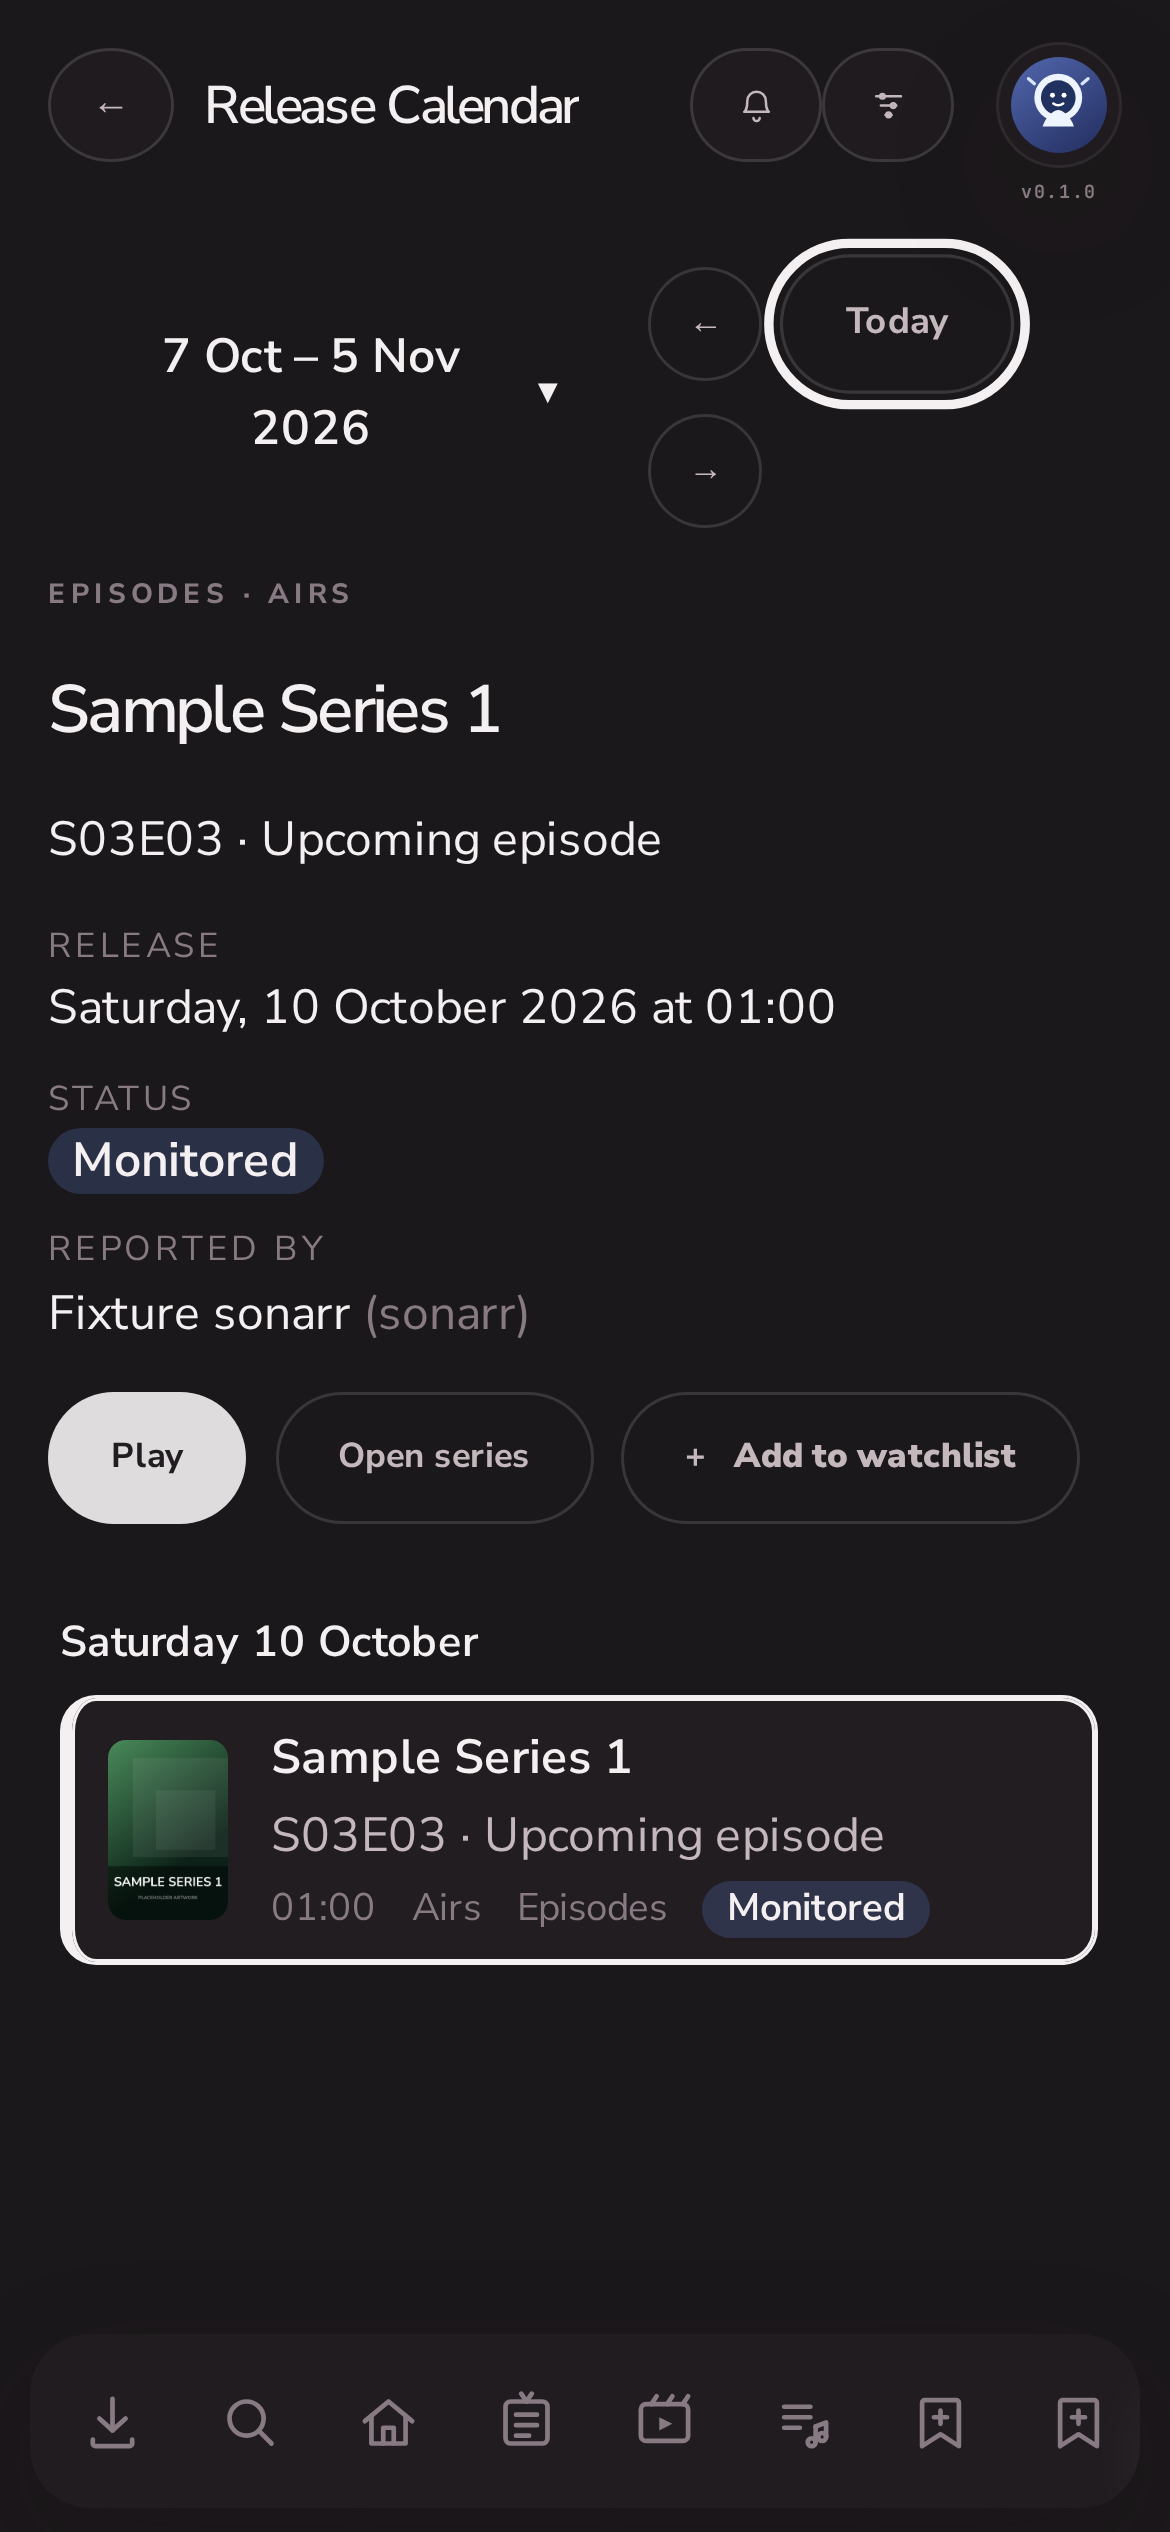
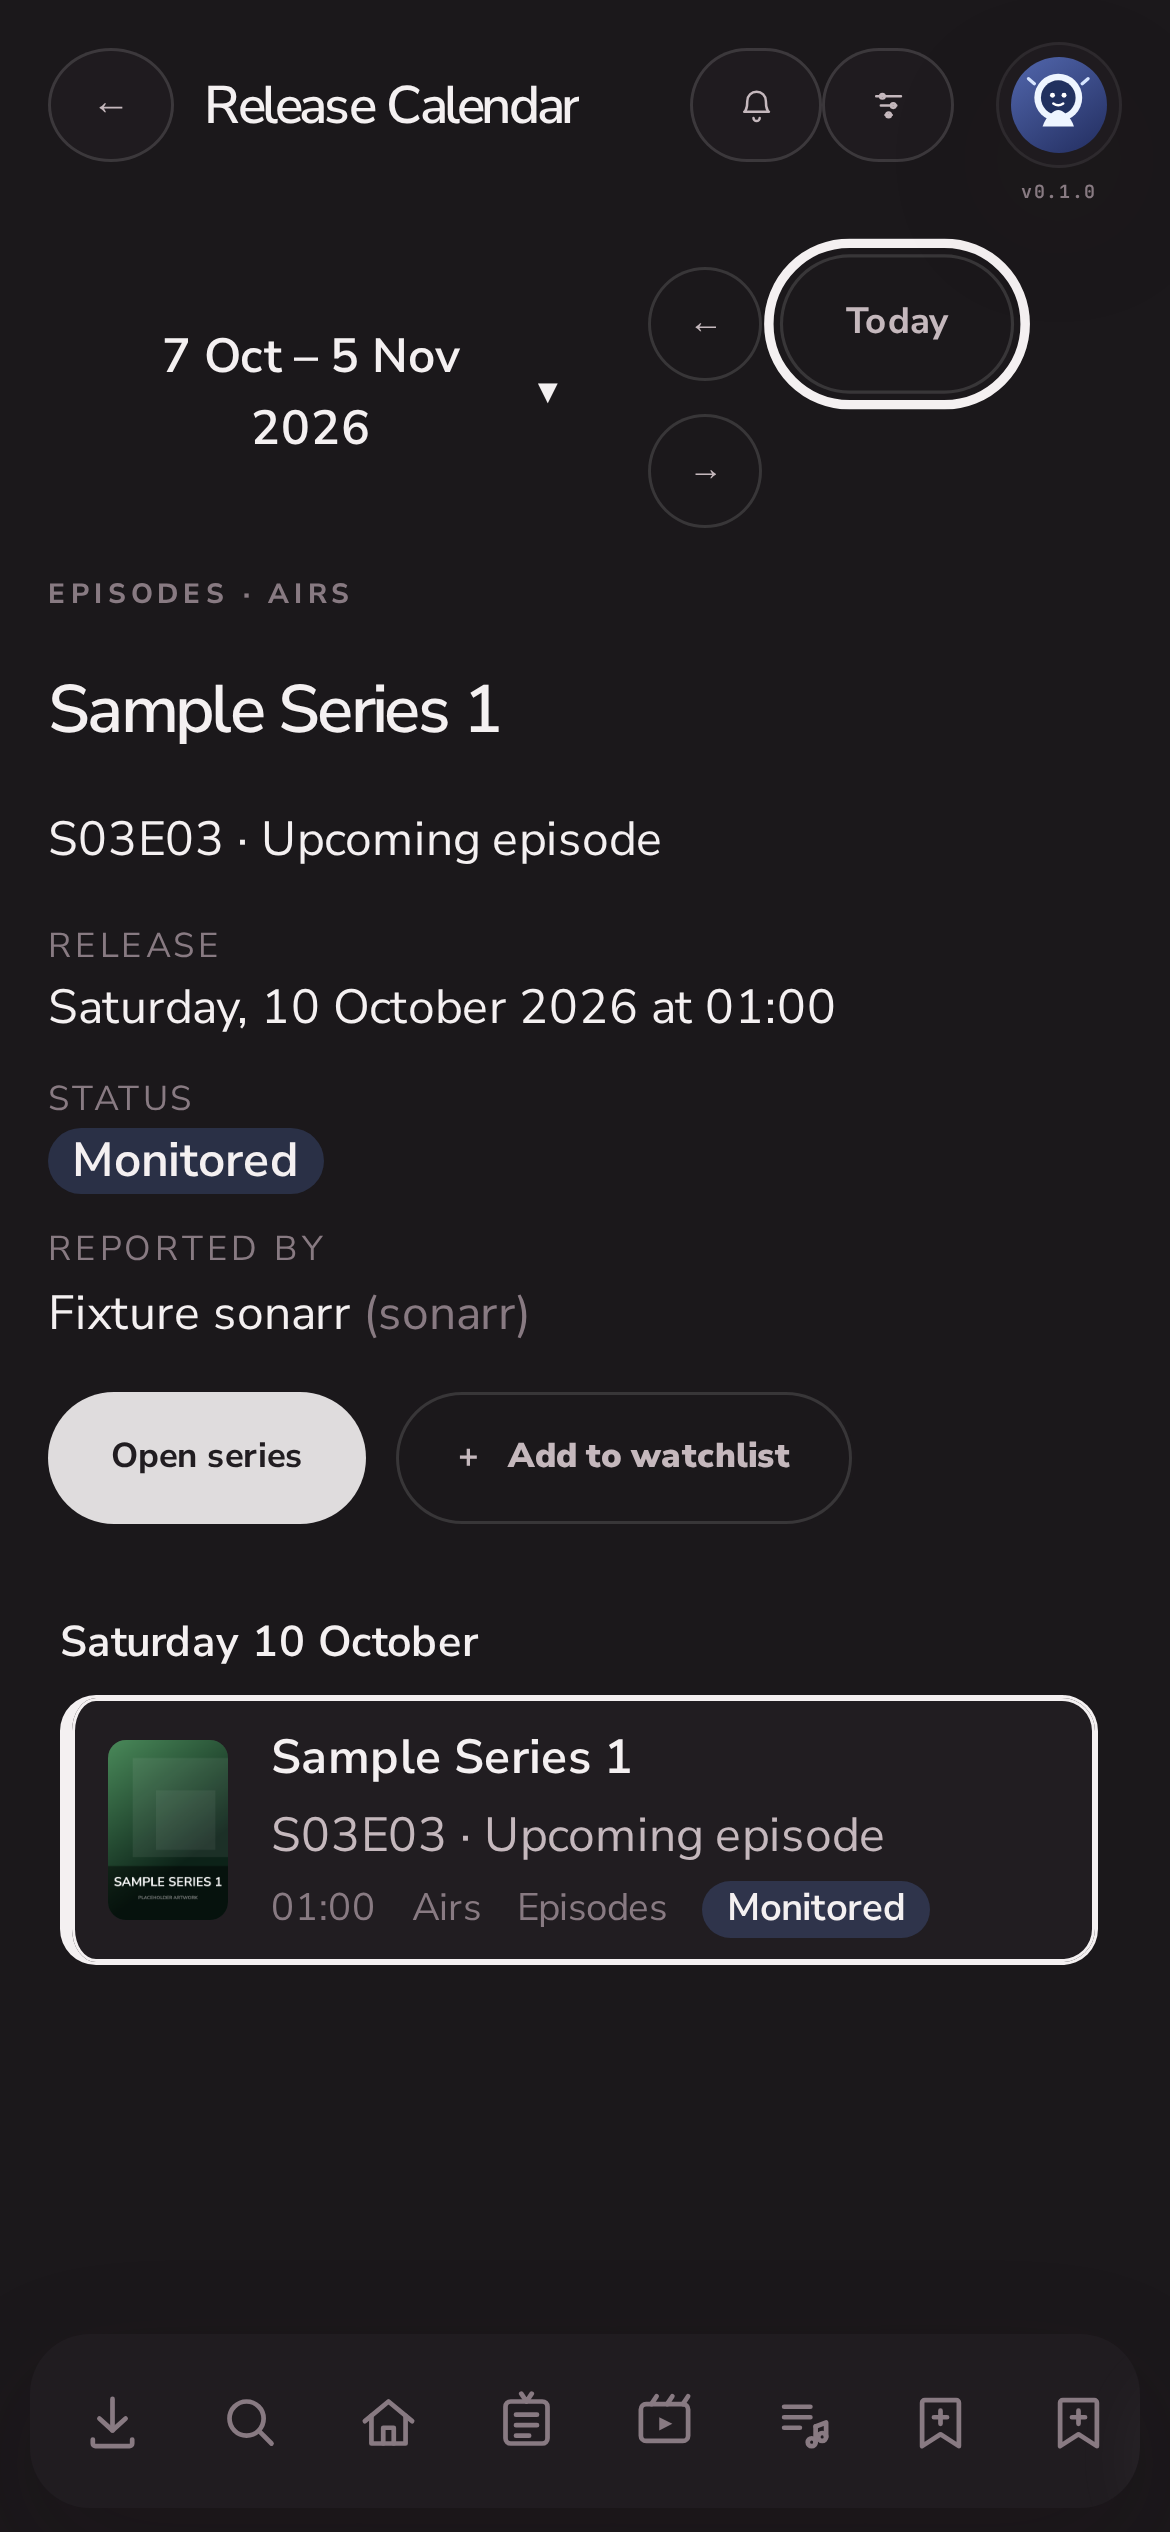
fix(parity): recapture the web calendar references without Play for an unaired episode (#169)
Recaptures only the web calendar references (tv and mobile, light and dark).

## What differed
The references showed a Play button on the detail of the unaired upcoming episode (no file). Current main shows only "Open series" and "Add to watchlist". The calendar offers Play only for an episode with its own file (server `calendar_actions`, covered by `play_is_offered_only_for_an_episode_with_its_own_file`), and the fixture's upcoming episode has none. No date, order or timestamp differs, and neither the added-date change nor the fixture clock change affects it. The old references were most likely captured against a server build that predated that behaviour. The rest of the pixel diff is the shifted button row.

## Verification
Two fresh databases (separate dirs and ports) on main: every screen differs by at most 0.01% between them. Against the committed references every other screen was already within 0.01%. The second database against the new calendar references: 0.00% on all four calendar captures.

Merge-Train: yes

Changed region(s): [[0.1846, 0.5304, 0.8615, 0.624], [0.0923, 0.5616, 0.1538, 0.5928]]

diff --git a/CHANGELOG.md b/CHANGELOG.md
@@ -209,6 +209,8 @@ uses [Semantic Versioning](https://semver.org/spec/v2.0.0.html).
 
 ### Changed
 
+- Parity: Downloads, Watchlist and Requests screens added to the shared list and references; diff.mjs gained --chrome-only/--keep-rect, capture-web.mjs --dump-dom and the hideVideo step, and the Apple workflow now uses the shared capture and diff tools instead of its private copies (removed).
+- Parity: the web calendar references (both layouts and themes) are recaptured. The upcoming episode has no file, so the detail offers only "Open series" and "Add to watchlist" (play only for an episode with its own file); the old references still showed a Play button.
 - Android TV profile page: web background glow, positions, avatar ring and a Clients pill that shows a QR code for the clients page.
 - iOS: embeds the web's exact Nunito Sans instance (`NunitoSans-wght-web.ttf`, only the weight axis free) instead of the full-axis upstream font, so glyph widths match the web; the shared `DesignFont` sets only the weight.
 - Android debug builds accept a frozen parity clock so pixel-parity captures do not depend on the real date.
